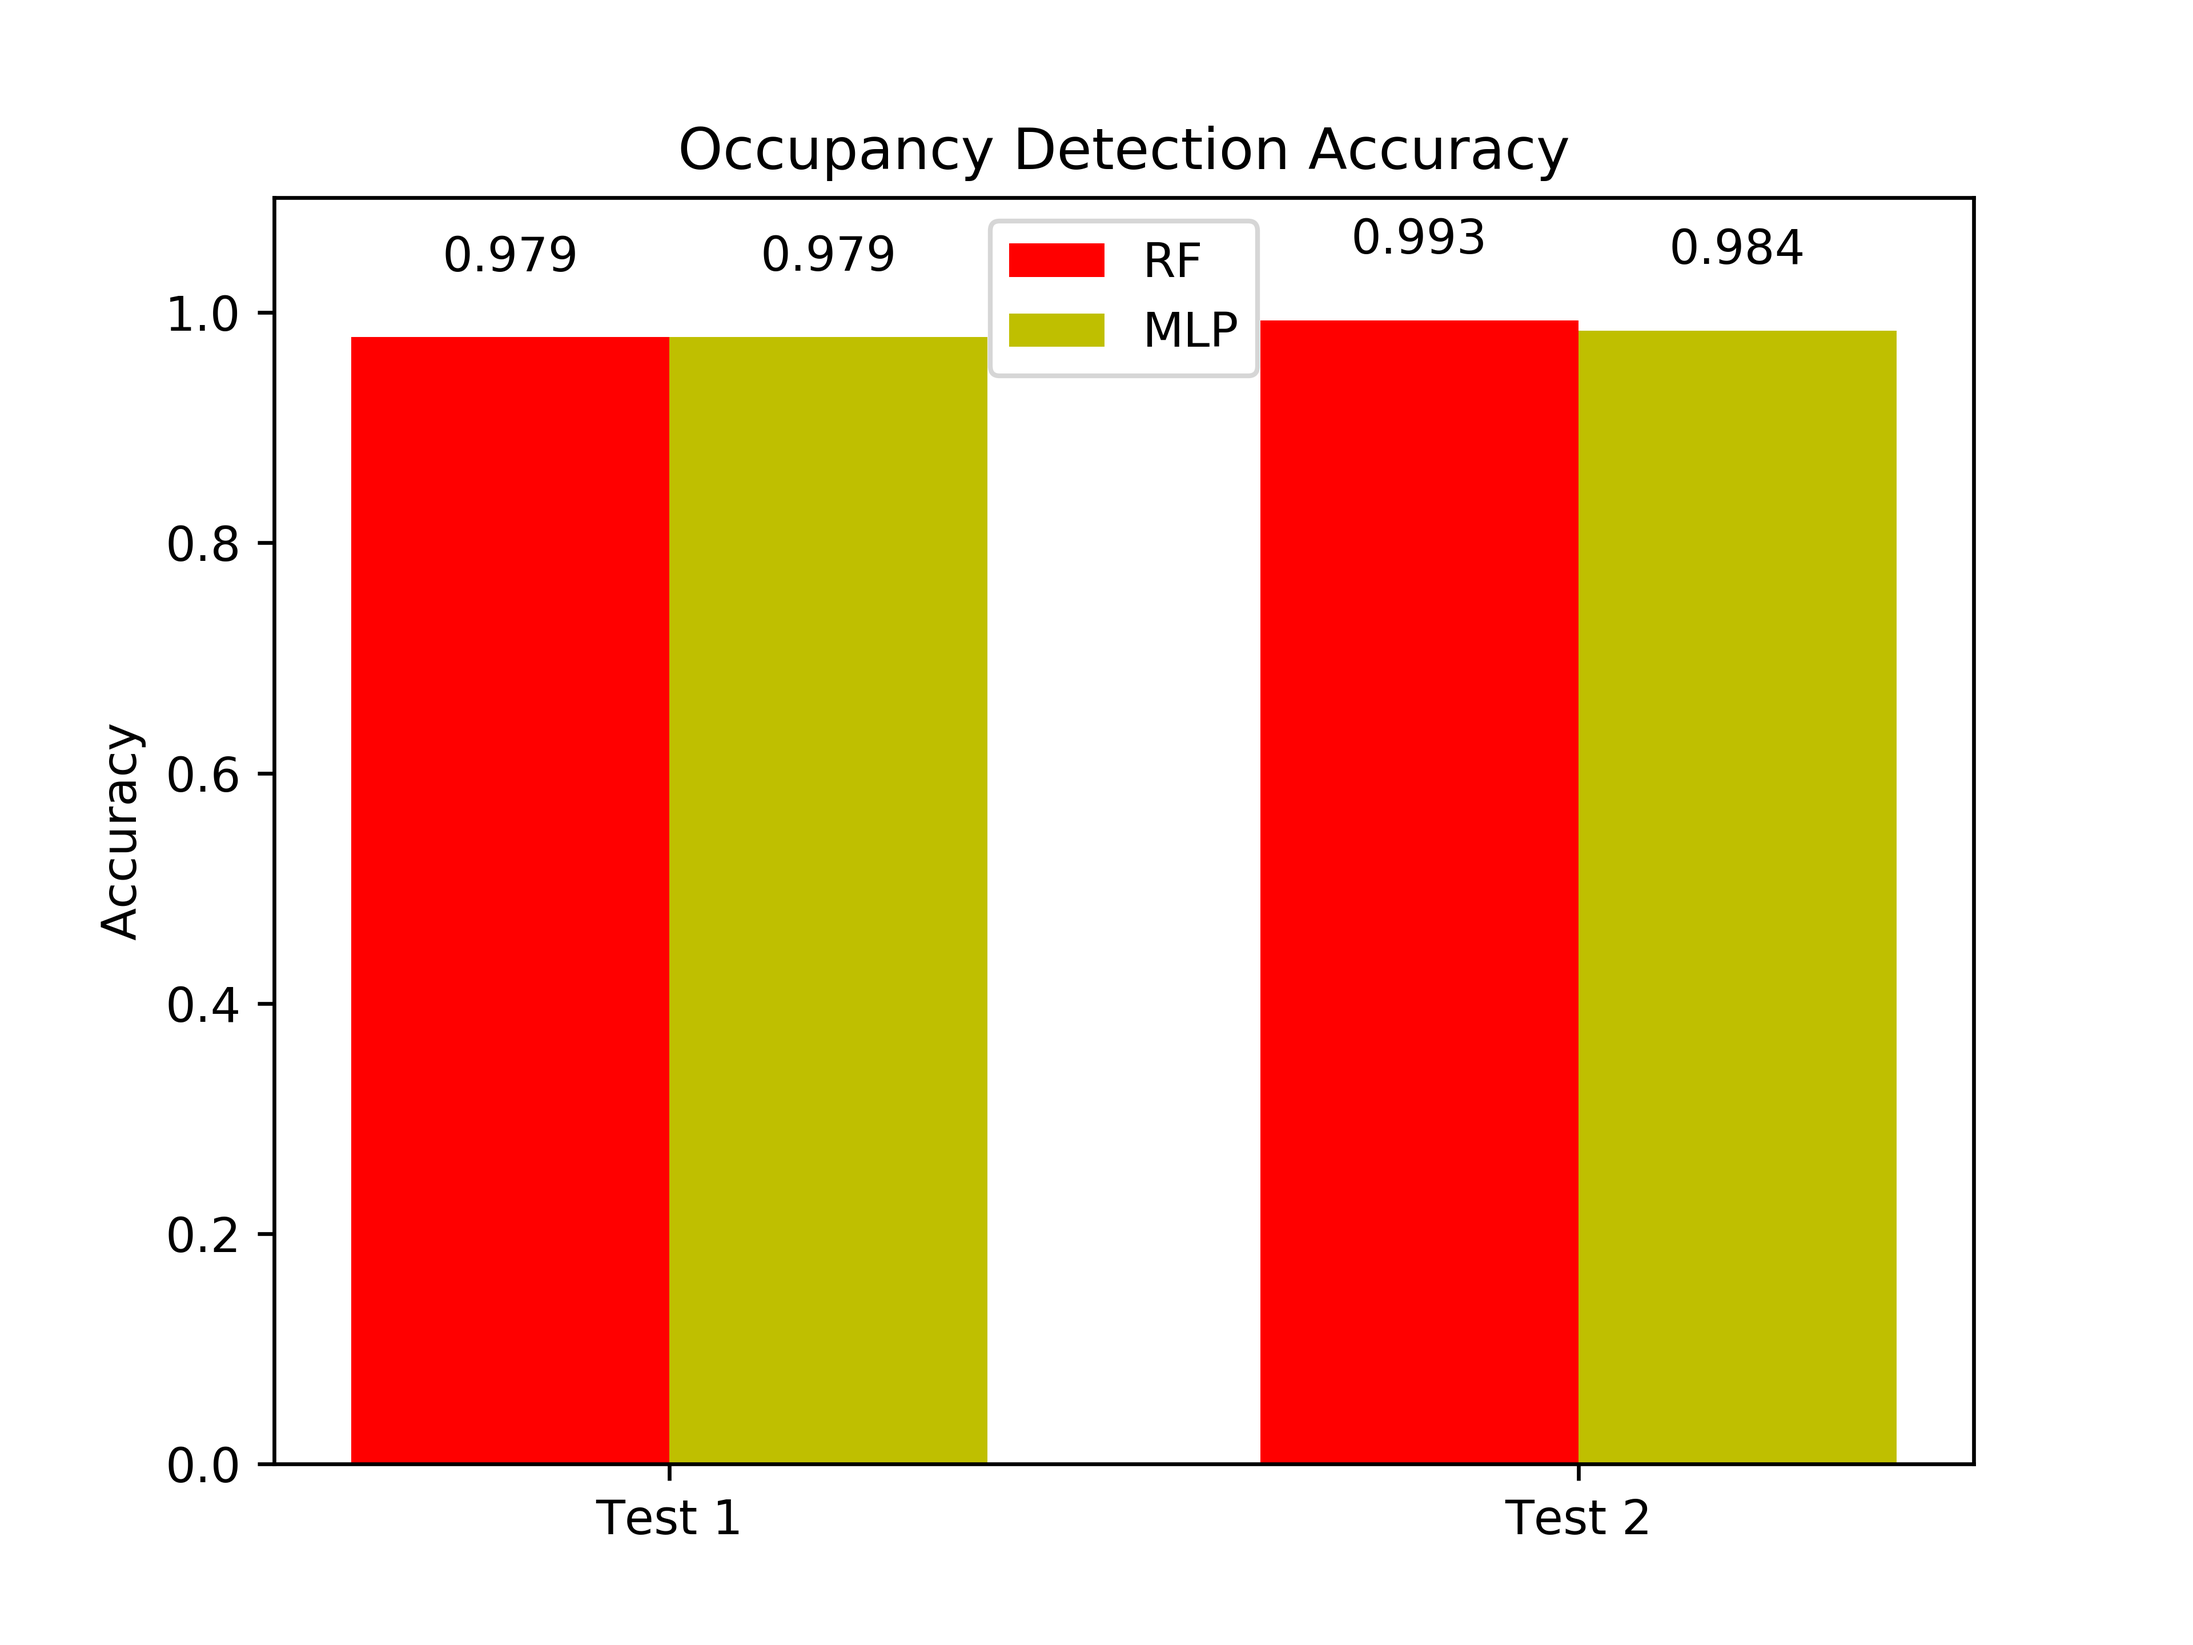
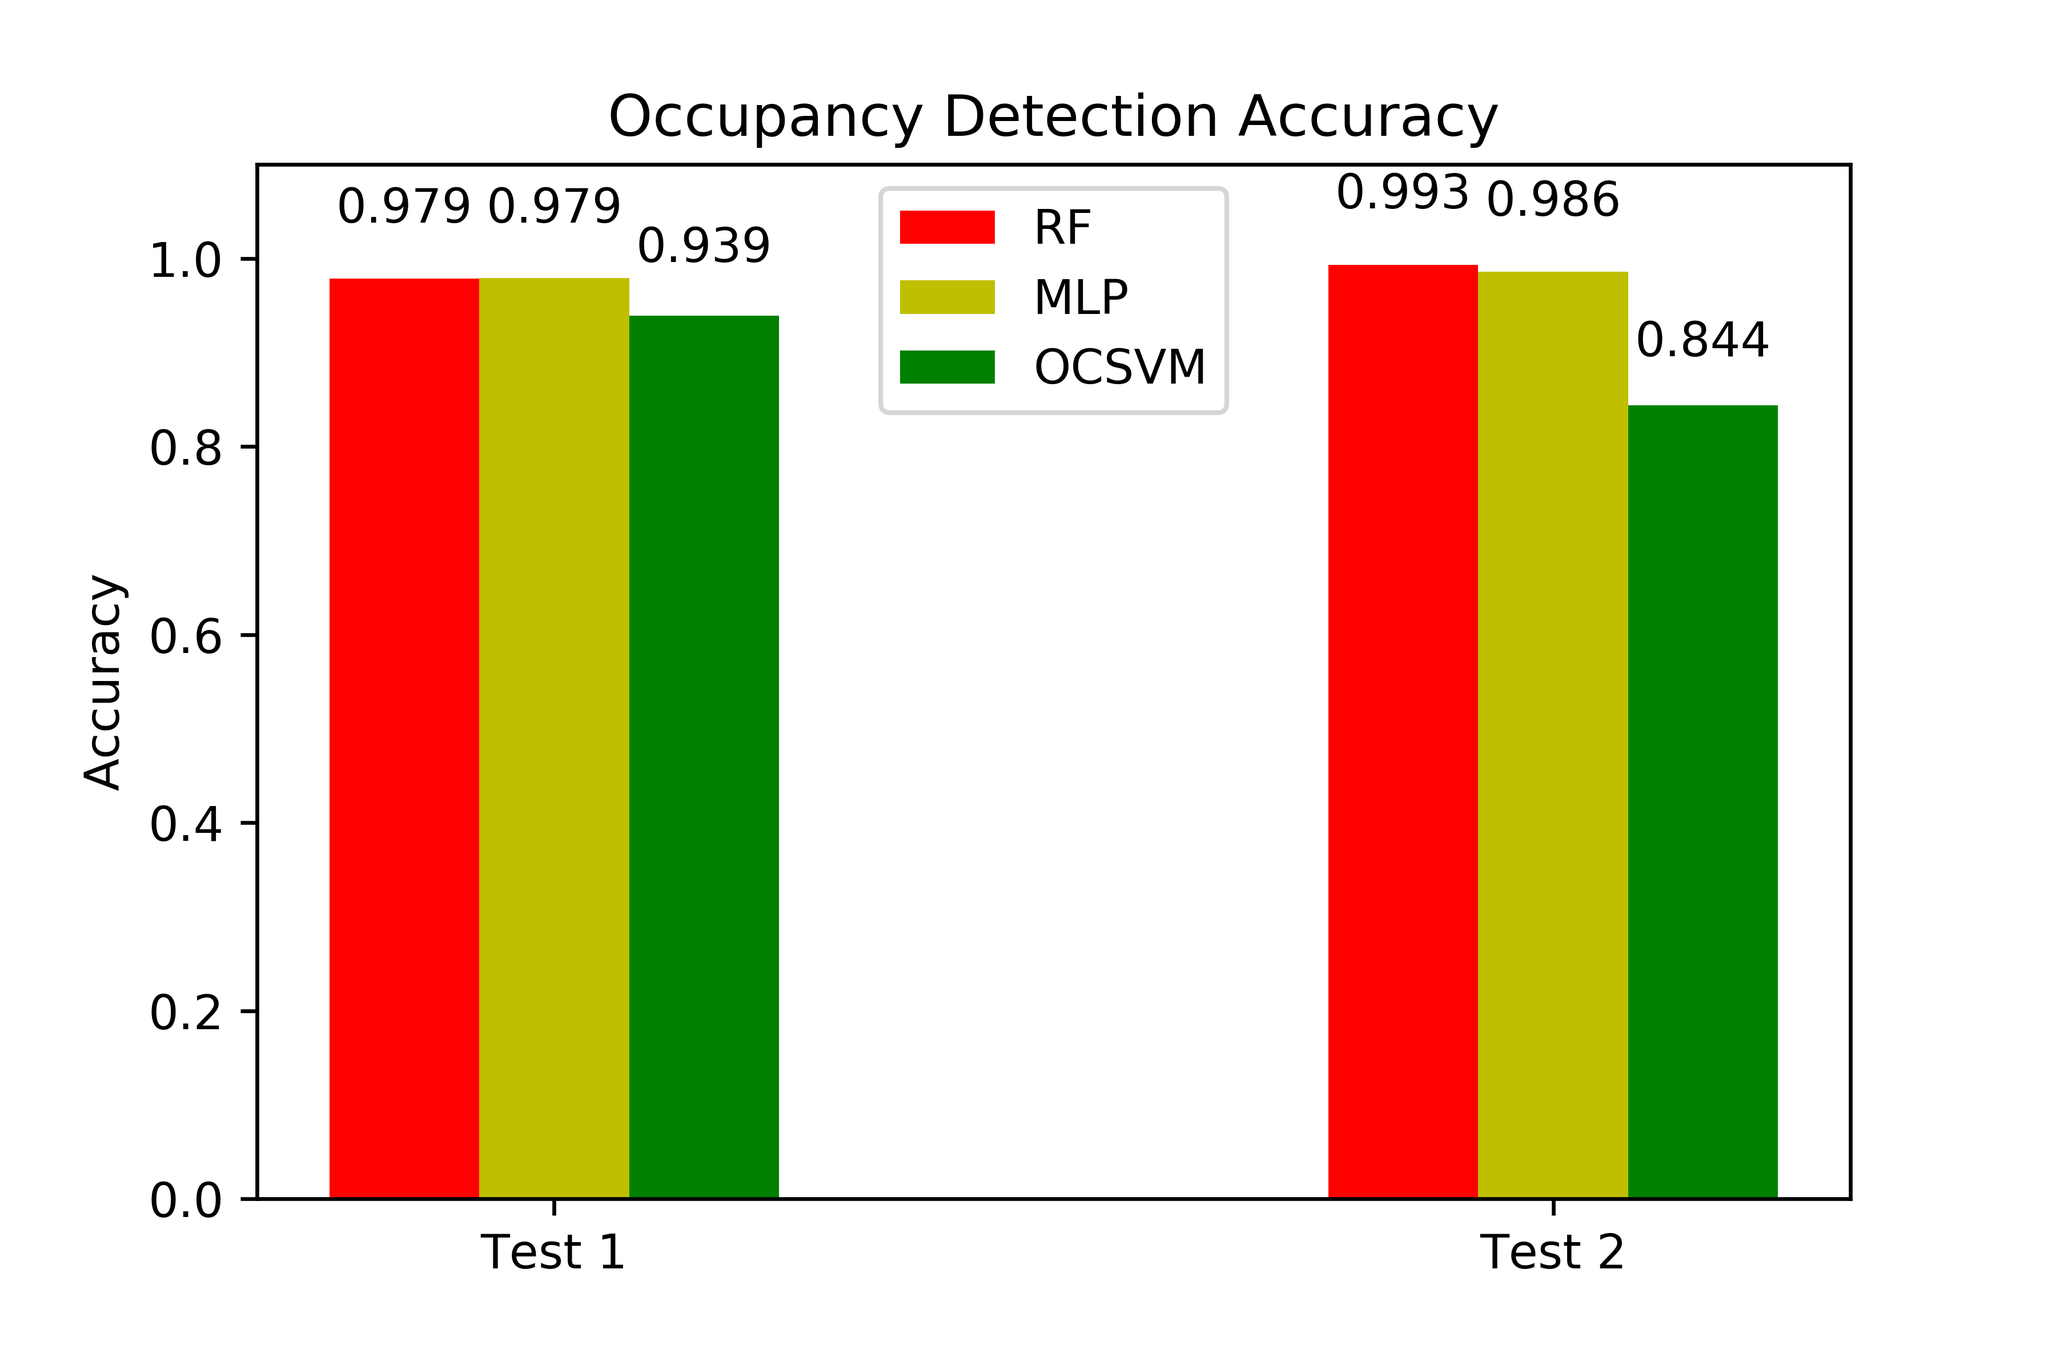
Tuned OCSVM and added results.

diff --git a/occupancy_detection.py b/occupancy_detection.py
@@ -4,7 +4,7 @@ from sklearn.metrics import confusion_matrix, f1_score, accuracy_score
 from sklearn.metrics import roc_curve, auc
 from sklearn.model_selection import cross_val_score, StratifiedKFold
 from sklearn.utils import class_weight
-from sklearn.preprocessing import StandardScaler
+from sklearn.preprocessing import StandardScaler, LabelEncoder
 from sklearn.pipeline import Pipeline
 from sklearn import svm
 import numpy as np
@@ -125,22 +125,26 @@ x_test_svm = []
 
 for row in df_train.values:
     if row[-1] == 1: #occupied
-        x_test_svm.append(row[0:5])
-    else: #unoccupied
         x_train_svm.append(row[0:5])
+    else: #unoccupied
+        x_test_svm.append(row[0:5])
+
 x_test_svm = np.asarray(x_test_svm)
 x_train_svm = np.asarray(x_train_svm)
 
-# Fit the OC-SVM
-ocsvm = svm.OneClassSVM(nu=1e-4, kernel='rbf', gamma=1e-7)
+# Train the OC-SVM on *OCCUPIED* data
+ocsvm = svm.OneClassSVM(nu=0.01, kernel='poly', gamma=0.3, degree=2)
 ocsvm.fit(x_train_svm)
 
 # Test the OC-SVM
-y_pred1_ocsvm = ocsvm.predict(x_train_svm)
-y_pred2_ocsvm = ocsvm.predict(x_test_svm)
-n_error_train = y_pred1_ocsvm[y_pred1_ocsvm == -1].size
-n_error_test = y_pred2_ocsvm[y_pred2_ocsvm == -1].size
+y_pred1_ocsvm = ocsvm.predict(x_test1)
+y_pred2_ocsvm = ocsvm.predict(x_test2)
 
+# Map OCSVM output from [-1,1] to [0,1] for compatibility
+label_encoder = LabelEncoder()
+label_encoder.fit([-1,1])
+y_pred1_ocsvm = label_encoder.transform(y_pred1_ocsvm) 
+y_pred2_ocsvm = label_encoder.transform(y_pred2_ocsvm)
 
 ## Results
 # Evaluate all models on all test datasets
@@ -148,59 +152,84 @@ rf1 = Performance(y_test1, y_pred1_rf)
 rf2 = Performance(y_test2, y_pred2_rf)
 mlp1 = Performance(y_test1, y_pred1_mlp)
 mlp2 = Performance(y_test2, y_pred2_mlp)
+ocsvm1 = Performance(y_test1, y_pred1_ocsvm)
+ocsvm2 = Performance(y_test2, y_pred2_ocsvm)
 
 # Accuracy
 fig, ax = plt.subplots(dpi=600)
 ind = np.arange(2)
-width = 0.35
+width = 0.15
 acc_rf = (rf1.acc, rf2.acc)
 bars_rf = ax.bar(ind, acc_rf, width, color='r')
 acc_mlp = (mlp1.acc, mlp2.acc)
 bars_mlp = ax.bar(ind + width, acc_mlp, width, color='y')
+acc_ocsvm = (ocsvm1.acc, ocsvm2.acc)
+bars_ocsvm = ax.bar(ind + 2*width, acc_ocsvm, width, color='g')
 ax.set_ylim([0, 1.1])
 ax.set_ylabel('Accuracy')
 ax.set_title('Occupancy Detection Accuracy')
-ax.set_xticks(ind + width / 2)
+ax.set_xticks(ind + width)
 ax.set_xticklabels(('Test 1', 'Test 2'))
-ax.legend((bars_rf[0], bars_mlp[0]), ('RF', 'MLP'), loc='upper center')
+ax.legend((bars_rf[0], bars_mlp[0], bars_ocsvm[0]), 
+          ('RF', 'MLP', 'OCSVM'), loc='upper center')
 autolabel(bars_rf)
 autolabel(bars_mlp)
+autolabel(bars_ocsvm)
 plt.savefig('Results/Accuracy.png')
 
 # F1 Score
 fig, ax = plt.subplots(dpi=600)
 ind = np.arange(2)
-width = 0.35
+width = 0.15
 f1_rf = (rf1.f1, rf2.f1)
 bars_rf = ax.bar(ind, f1_rf, width, color='r')
 f1_mlp = (mlp1.f1, mlp2.f1)
 bars_mlp = ax.bar(ind + width, f1_mlp, width, color='y')
+f1_ocsvm = (ocsvm1.f1, ocsvm2.f1)
+bars_ocsvm = ax.bar(ind + 2*width, f1_ocsvm, width, color='g')
 ax.set_ylim([0, 1.1])
 ax.set_ylabel('F1 Score')
 ax.set_title('F1 Score of Detectors')
-ax.set_xticks(ind + width / 2)
+ax.set_xticks(ind + width)
 ax.set_xticklabels(('Test 1', 'Test 2'))
-ax.legend((bars_rf[0], bars_mlp[0]), ('RF', 'MLP'), loc='upper center')
+ax.legend((bars_rf[0], bars_mlp[0], bars_ocsvm[0]), 
+          ('RF', 'MLP', 'OCSVM'), loc='upper center')
 autolabel(bars_rf)
 autolabel(bars_mlp)
+autolabel(bars_ocsvm)
 plt.savefig('Results/F1-Score.png')
 
 # AUROC
 plt.figure(figsize=(10,5), dpi=600)
 lw = 2
-plt.plot(rf1.fpr, rf1.tpr, color='green',
-         lw=lw, label='RF - Test 1 (area = %0.2f)' % rf1.auroc)
-plt.plot(rf2.fpr, rf2.tpr, color='red',
-         lw=lw, label='RF - Test 2 (area = %0.2f)' % rf2.auroc)
-plt.plot(mlp1.fpr, mlp1.tpr, color='cyan',
-         lw=lw, label='MLP - Test 1 (area = %0.2f)' % mlp1.auroc)
-plt.plot(mlp2.fpr, mlp2.tpr, color='magenta',
-         lw=lw, label='MLP - Test 2 (area = %0.2f)' % mlp2.auroc)
-plt.plot([0, 1], [0, 1], color='navy', lw=lw, linestyle='--')
 plt.xlim([0.0, 1.0])
 plt.ylim([0.0, 1.05])
+# Test 1
+plt.subplot(211)
+plt.plot(rf1.fpr, rf1.tpr, color='red',
+         lw=lw, label='RF - Test 1 (area = %0.2f)' % rf1.auroc)
+plt.plot(mlp1.fpr, mlp1.tpr, color='green',
+         lw=lw, label='MLP - Test 1 (area = %0.2f)' % mlp1.auroc)
+plt.plot(ocsvm1.fpr, ocsvm1.tpr, color='blue',
+         lw=lw, label='OCSVM - Test 1 (area = %0.2f)' % ocsvm1.auroc)
+plt.plot([0, 1], [0, 1], color='black', lw=lw, linestyle='--')
+plt.annotate('Overlapping!', 
+             xy=(0.014, 0.6), 
+             arrowprops=dict(arrowstyle='->'), 
+             xytext=(0.2, 0.7))
+plt.title('Receiver Operating Characteristic')
+plt.ylabel('True Positive Rate')
+plt.legend(loc="lower right")
+# Test 2
+plt.subplot(212)
+plt.plot(rf2.fpr, rf2.tpr, color='red',
+         lw=lw, label='RF - Test 2 (area = %0.2f)' % rf2.auroc)
+plt.plot(mlp2.fpr, mlp2.tpr, color='green',
+         lw=lw, label='MLP - Test 2 (area = %0.2f)' % mlp2.auroc)
+plt.plot(ocsvm2.fpr, ocsvm2.tpr, color='blue',
+         lw=lw, label='OCSVM - Test 2 (area = %0.2f)' % ocsvm2.auroc)
+plt.plot([0, 1], [0, 1], color='black', lw=lw, linestyle='--')
 plt.xlabel('False Positive Rate')
 plt.ylabel('True Positive Rate')
-plt.title('Receiver Operating Characteristic')
 plt.legend(loc="lower right")
 plt.savefig('Results/AUROC.png')
